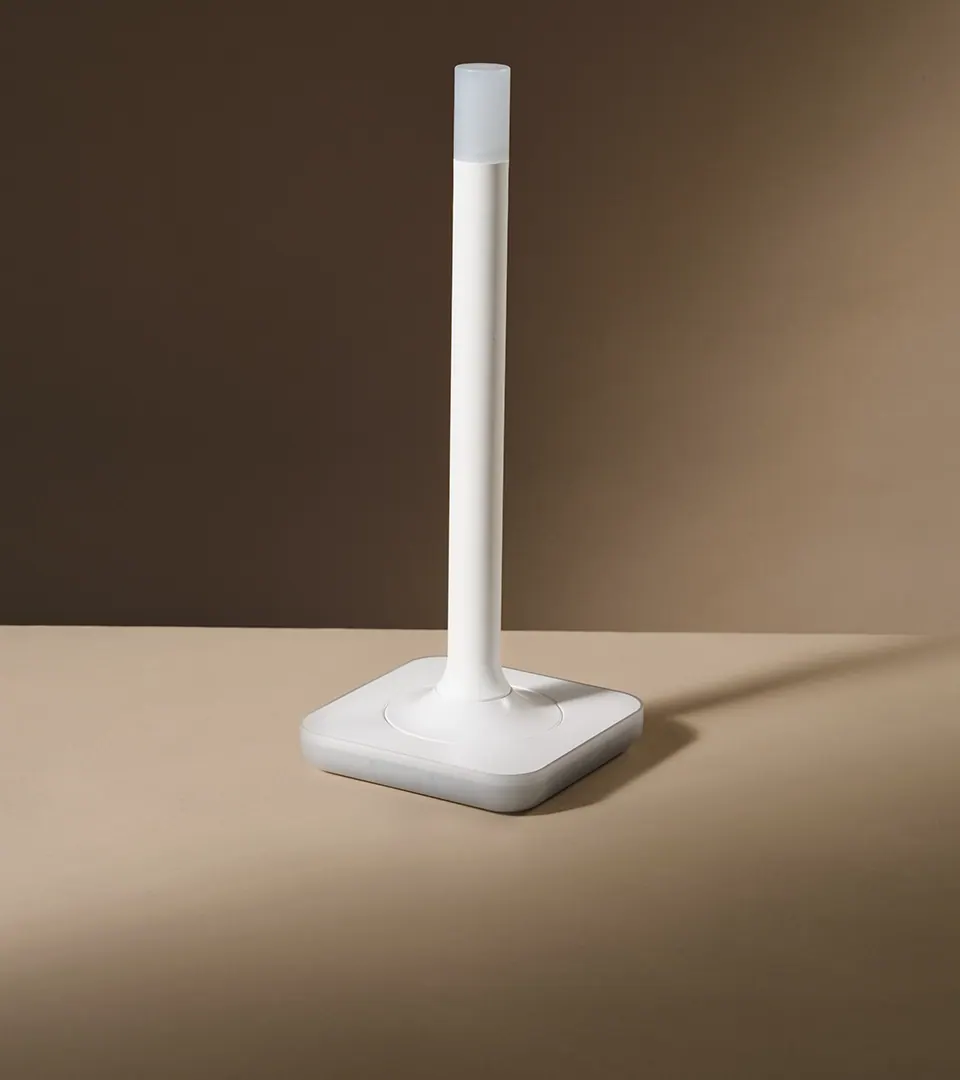
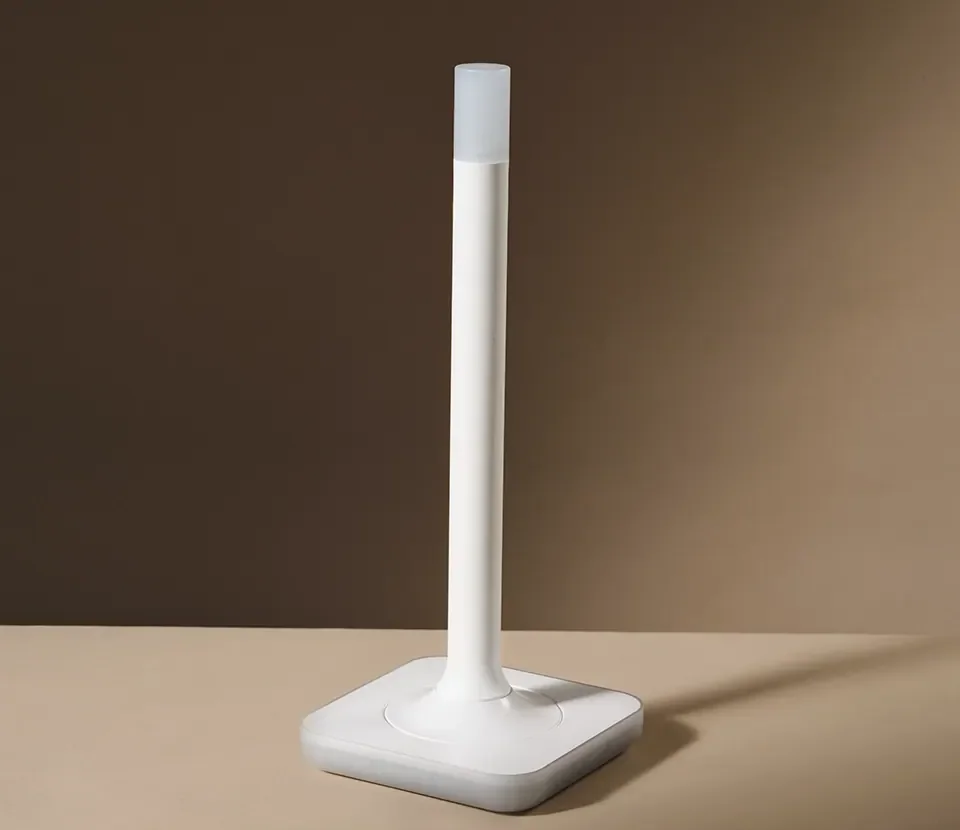
Keep ZBT-2 and ZWA-2 fully visible on their category cards
Crop the two adapter photos just below the device and show them above
the title and description boxes instead of behind them, filling the
space behind the boxes with a gradient matching the photo's floor.
Cards are also slightly taller, closer to the 6:7 shape of the
nabucasa.com image cards.

Claude-Session: https://claude.ai/code/session_01K9fPMrE7Le5buA6nAMmFAQ

diff --git a/styles/_category-cards.scss b/styles/_category-cards.scss
@@ -6,11 +6,15 @@
 // Photo and title colour for each category, keyed by category name and listed
 // in the order the cards appear on the home page (whatever order Zendesk returns
 // them in). Categories without an entry come last, as plain gray cards.
+//
+// Tall devices set `floor`: their photo (cropped just below the device) then
+// stops above the boxes so the whole device stays visible, and the space behind
+// the boxes is filled with a gradient matching the photo's bottom edge.
 $category-cards: (
   "Cloud": (image: url($assets-category-cloud-webp), color: var(--nc-color-gray)),
   "Green": (image: url($assets-category-green-webp), color: var(--nc-color-green)),
-  "Connect ZBT-2": (image: url($assets-category-connect-zbt-2-webp), color: var(--nc-color-tin)),
-  "Connect ZWA-2": (image: url($assets-category-connect-zwa-2-webp), color: var(--nc-color-tin)),
+  "Connect ZBT-2": (image: url($assets-category-connect-zbt-2-webp), color: var(--nc-color-tin), floor: (#d1bba7, #af9b82)),
+  "Connect ZWA-2": (image: url($assets-category-connect-zwa-2-webp), color: var(--nc-color-tin), floor: (#c3ae98, #816c53)),
   "Voice Preview Edition": (image: url($assets-category-voice-preview-edition-webp), color: var(--nc-color-orange)),
   "Connect ZBT-1": (image: url("https://www.home-assistant.io/images/frontpage/feature-zbt1.jpg"), color: var(--nc-color-tin)),
   "Yellow": (image: url("https://www.home-assistant.io/images/frontpage/yellow-frontpage.jpg"), color: var(--nc-color-sun)),
@@ -19,11 +23,12 @@ $category-cards: (
 .category-cards {
   display: grid;
   gap: var(--nc-stack-gap);
-  grid-auto-rows: minmax(26rem, auto);
+  grid-auto-rows: minmax(28rem, auto);
   grid-template-columns: minmax(0, 1fr);
 
+  // Roughly the 6:7 proportions of the nabucasa.com image cards
   @include tablet {
-    grid-auto-rows: minmax(clamp(26rem, 34vw, 32rem), auto);
+    grid-auto-rows: minmax(clamp(30rem, 40vw, 36rem), auto);
     grid-template-columns: repeat(2, minmax(0, 1fr));
 
     // Cloud leads as a double-width card, as the first card does on nabucasa.com
@@ -65,7 +70,24 @@ $category-cards: (
     &[data-name="Home Assistant #{$name}"] {
       --card-title-color: #{map-get($card, color)};
       order: index($category-cards, ($name $card));
-      background-image: map-get($card, image);
+
+      @if map-has-key($card, floor) {
+        $floor: map-get($card, floor);
+        background-image: linear-gradient(90deg, nth($floor, 1), nth($floor, 2));
+
+        &::before {
+          background: map-get($card, image) center bottom / cover no-repeat;
+          content: "";
+          flex: 1 1 auto;
+          margin: -0.75rem -0.75rem 0;
+
+          @include tablet {
+            margin: -1rem -1rem 0;
+          }
+        }
+      } @else {
+        background-image: map-get($card, image);
+      }
     }
   }
 

diff --git a/style.css b/style.css
@@ -6714,12 +6714,12 @@ main > .container > h2,
 .category-cards {
   display: grid;
   gap: var(--nc-stack-gap);
-  grid-auto-rows: minmax(26rem, auto);
+  grid-auto-rows: minmax(28rem, auto);
   grid-template-columns: minmax(0, 1fr);
 }
 @media (min-width: 768px) {
   .category-cards {
-    grid-auto-rows: minmax(clamp(26rem, 34vw, 32rem), auto);
+    grid-auto-rows: minmax(clamp(30rem, 40vw, 36rem), auto);
     grid-template-columns: repeat(2, minmax(0, 1fr));
   }
   .category-cards > .category-card[data-name="Home Assistant Cloud"] {
@@ -6766,12 +6766,34 @@ main > .container > h2,
 .category-card[data-name="Home Assistant Connect ZBT-2"] {
   --card-title-color: var(--nc-color-tin);
   order: 3;
-  background-image: url($assets-category-connect-zbt-2-webp);
+  background-image: linear-gradient(90deg, #d1bba7, #af9b82);
+}
+.category-card[data-name="Home Assistant Connect ZBT-2"]::before {
+  background: url($assets-category-connect-zbt-2-webp) center bottom/cover no-repeat;
+  content: "";
+  flex: 1 1 auto;
+  margin: -0.75rem -0.75rem 0;
+}
+@media (min-width: 768px) {
+  .category-card[data-name="Home Assistant Connect ZBT-2"]::before {
+    margin: -1rem -1rem 0;
+  }
 }
 .category-card[data-name="Home Assistant Connect ZWA-2"] {
   --card-title-color: var(--nc-color-tin);
   order: 4;
-  background-image: url($assets-category-connect-zwa-2-webp);
+  background-image: linear-gradient(90deg, #c3ae98, #816c53);
+}
+.category-card[data-name="Home Assistant Connect ZWA-2"]::before {
+  background: url($assets-category-connect-zwa-2-webp) center bottom/cover no-repeat;
+  content: "";
+  flex: 1 1 auto;
+  margin: -0.75rem -0.75rem 0;
+}
+@media (min-width: 768px) {
+  .category-card[data-name="Home Assistant Connect ZWA-2"]::before {
+    margin: -1rem -1rem 0;
+  }
 }
 .category-card[data-name="Home Assistant Voice Preview Edition"] {
   --card-title-color: var(--nc-color-orange);
